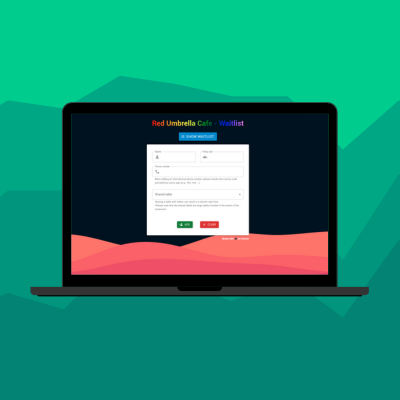
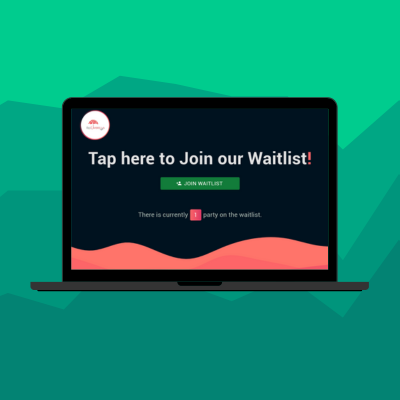
feat: added app diagram

Changed region(s): [[0.06, 0.24, 0.93, 0.75]]

diff --git a/pages/index.js b/pages/index.js
@@ -109,7 +109,7 @@ const Landing = () => {
                 fontWeight='500'
                 color={'#B2BEB5'}
               >
-                {tables.length > 1 ? 'tables' : 'table'} on the waitlist.
+                {tables.length > 1 ? 'parties' : 'party'} on the waitlist.
               </Typography>
             </Stack>
           )}
